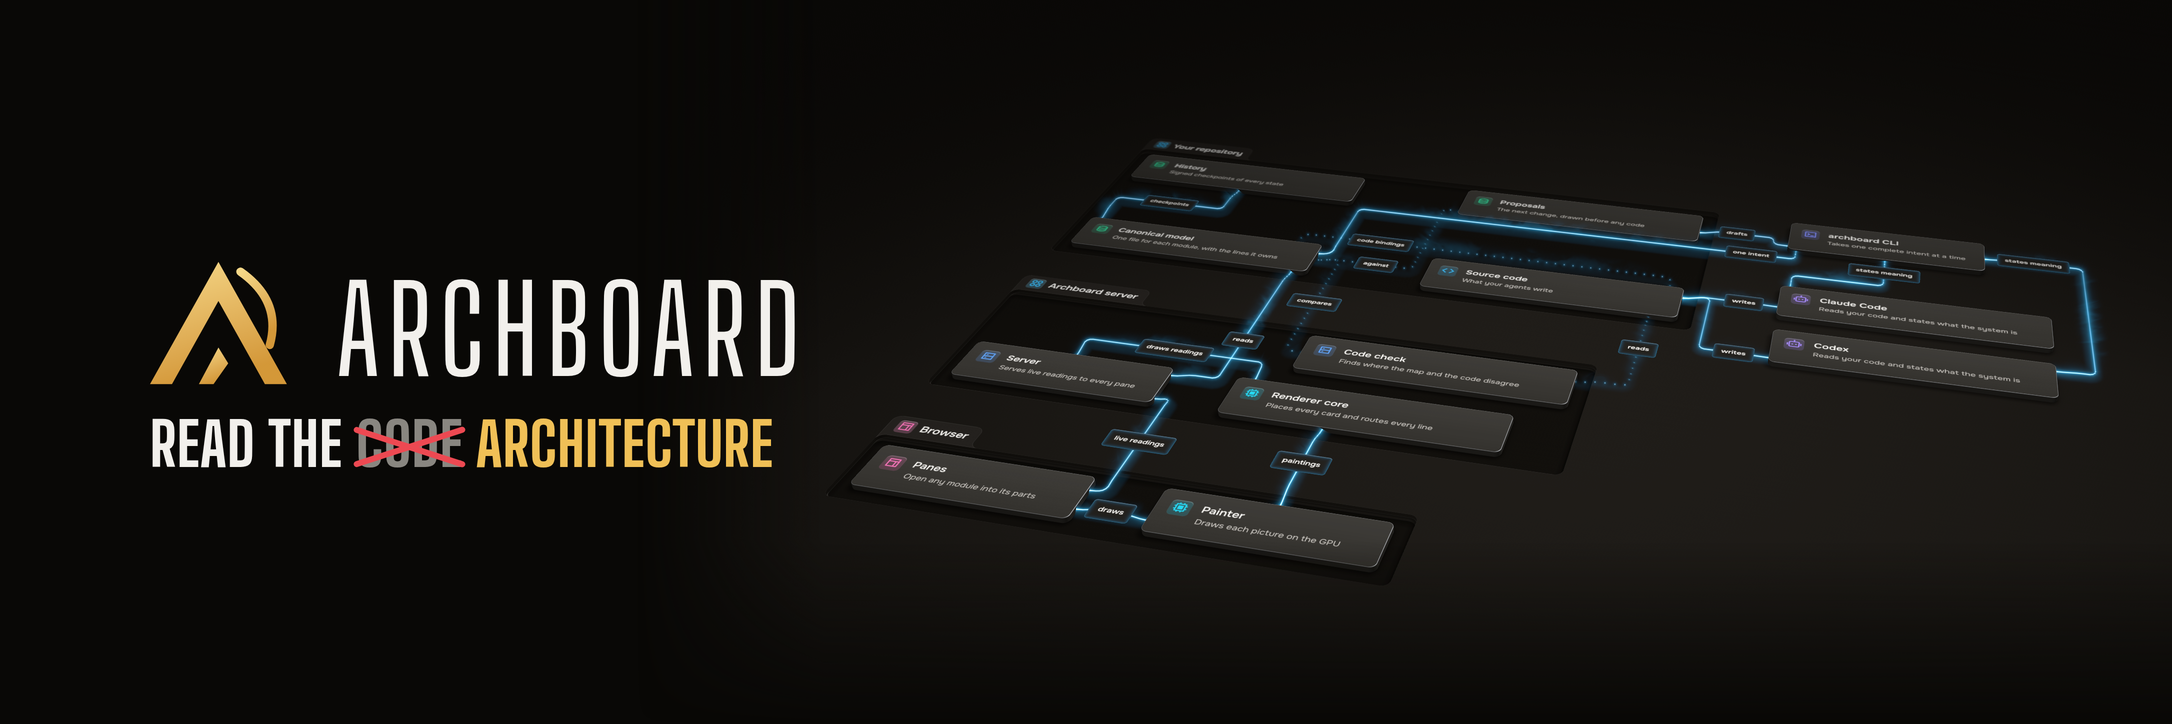
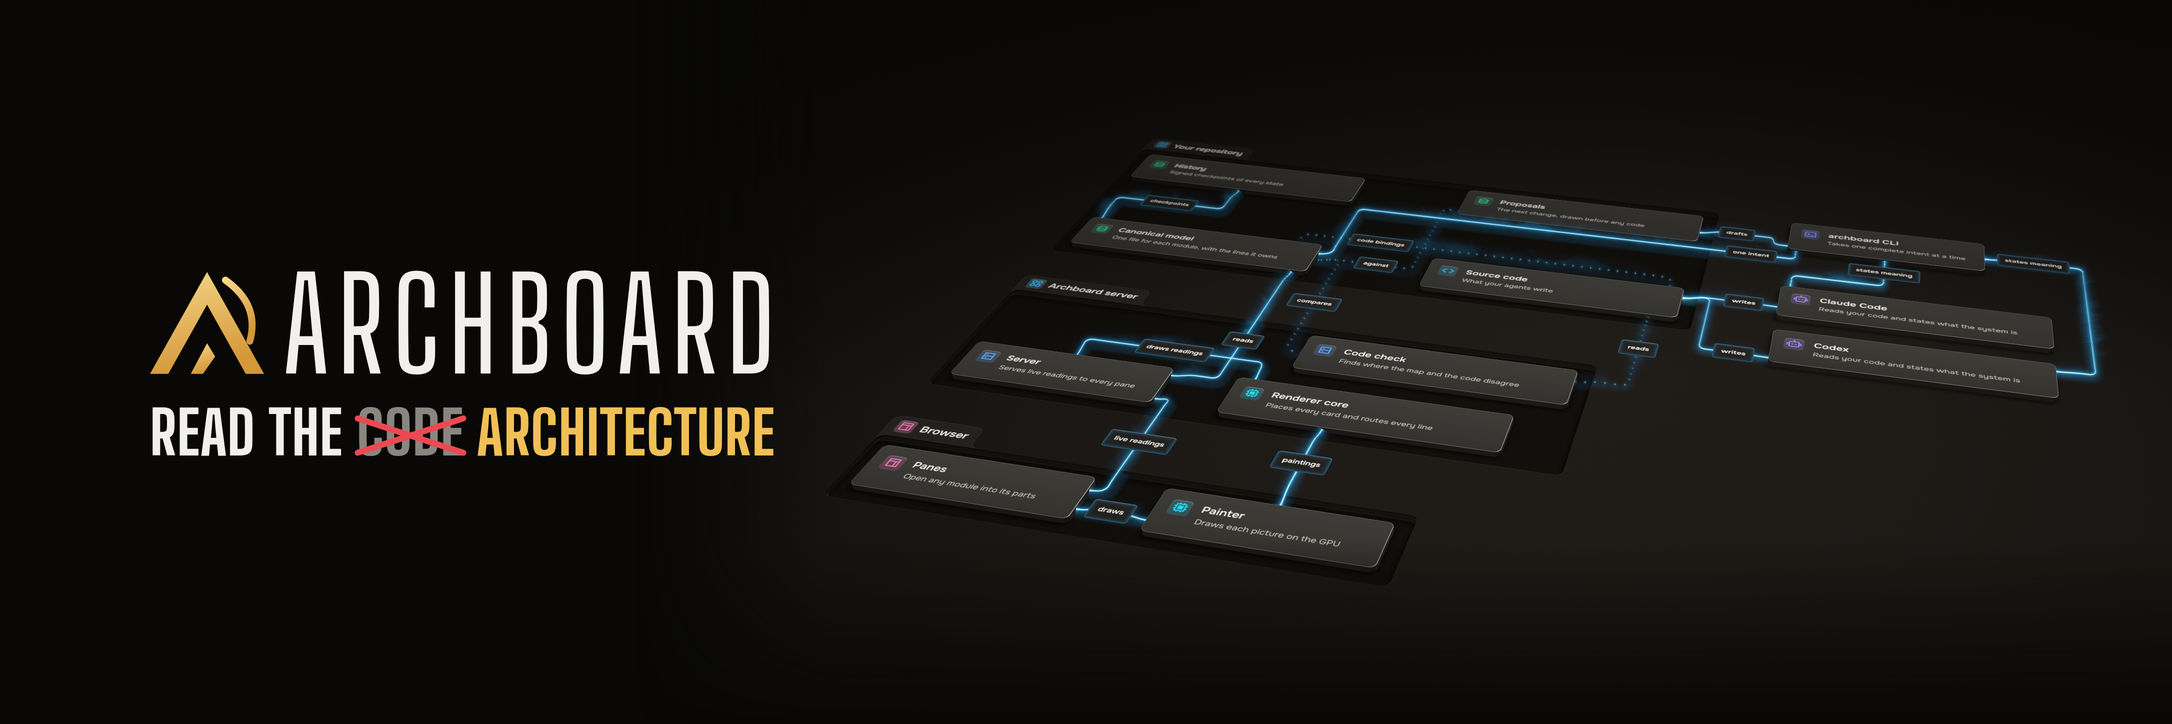
feat(readme): match the name to the mark and fit the tagline to the lockup
The art's lockup sizes the name so that its capitals stand exactly as
tall as the mark, trims the name's box to its capitals so the two centre
on each other, and sets the name closer to the mark. The banner sizes
its tagline to span from the mark's left edge to the name's last
capital, and its lockup shrinks so the tagline clears the table.

Refs: TASK-625

Changed region(s): [[0.0617, 0.3646, 0.3702, 0.6685]]

diff --git a/scripts/readme-assets/lockup.ts b/scripts/readme-assets/lockup.ts
@@ -1,8 +1,8 @@
 // The lockup the README's art sets: the mark beside the name. The mark is a gold peak with a
 // second stroke inside it and a swoosh over its shoulder, in the theme's gradient from --mark-hi
-// to --mark-lo. The name is archboard in the display face's tracked capitals. The shell draws the
-// same lockup (apps/web/src/ui/shell/components/Brand.tsx), and the repository lane holds this geometry to
-// the shell's, so the two cannot drift.
+// to --mark-lo. The name is archboard in the display face's tracked capitals, which stand exactly
+// as tall as the mark. The shell draws the same mark (apps/web/src/ui/shell/components/Brand.tsx),
+// and the repository lane holds this geometry to the shell's, so the two cannot drift.
 
 /** The mark's geometry, as the shell draws it. */
 const MARK = {
@@ -19,7 +19,15 @@ const MARK = {
  * How far the name stands from the mark, in the shell's pixels. The shell sets them 10 apart. At
  * the art's far larger sizes that gap reads as loose, so the art sets them closer.
  */
-const GAP = 6;
+const GAP = 2;
+
+/**
+ * The name's font size, as a share of the lockup's size, so that its capitals stand from the top
+ * of the mark's ink to its foot. The mark fits its box, 22 by 21 shell pixels, at 22/60 of a pixel
+ * per unit of its viewBox. Its ink, from the peak's tip at 3 to its feet at 53, is centred in the
+ * box. The display face's capitals are 0.8 of its size.
+ */
+const NAME = (50 * (22 / 60)) / 18 / 0.8;
 
 /**
  * A length of the shell's lockup, whose name is 18px, as a share of the name's size.
@@ -32,9 +40,10 @@ function em(shellPixels: number): string {
 
 /**
  * The lockup as markup for a page that has loaded the renderer package's theme.css and names the display
- * face "Archboard Display". Its proportions are the shell's but for the gap: at a name of 18px the
- * mark is 22 by 21, GAP away, and the name's line is 21 high.
- * @param size The name's font size, in pixels; the mark scales with it.
+ * face "Archboard Display". At a size of 18px the mark is 22 by 21, as in the shell, and the name
+ * stands GAP away, set at NAME times the size. The name's box is trimmed to its capitals, so the two
+ * centre on each other.
+ * @param size The lockup's size, in pixels: the size of the shell's 18px name.
  * @returns The markup.
  */
 function lockupMarkup(size: number): string {
@@ -46,8 +55,8 @@ function lockupMarkup(size: number): string {
 		<g fill="url(#archboard-mark)">${fills.map((d) => `<path d="${d}"/>`).join("")}</g>
 		<path d="${swoosh.d}" fill="none" stroke="url(#archboard-mark)" stroke-width="${swoosh.width}" stroke-linecap="round"/>
 	</svg>`;
-	const name = `<span style="font-family:'Archboard Display';font-weight:500;text-transform:uppercase;letter-spacing:0.07em;line-height:${em(21)};margin-bottom:${em(-1)};color:var(--foreground)">archboard</span>`;
-	return `<div style="display:flex;align-items:flex-end;gap:${em(GAP)};font-size:${size}px">${mark}${name}</div>`;
+	const name = `<span style="font-family:'Archboard Display';font-size:${NAME.toFixed(4)}em;font-weight:500;text-transform:uppercase;letter-spacing:0.07em;line-height:1;text-box:trim-both cap alphabetic;color:var(--foreground)">archboard</span>`;
+	return `<div style="display:flex;align-items:center;gap:${em(GAP)};font-size:${size}px">${mark}${name}</div>`;
 }
 
 export { MARK, lockupMarkup };

diff --git a/scripts/readme-assets/stage/banner.html b/scripts/readme-assets/stage/banner.html
@@ -48,8 +48,10 @@
 				margin: 0;
 				white-space: pre-line;
 			}
-			/* The tagline under the lockup, set as the site sets its headlines. */
+			/* The tagline under the lockup, set as the site sets its headlines. The page sizes it once
+			   the faces load, so it measures its words, not the lockup's width. */
 			.tagline {
+				width: max-content;
 				margin-top: 0.4em;
 			}
 			/* A headline in the display face over a lead in the body face, as the site sets them, each
@@ -125,37 +127,49 @@
 			lockup.style.setProperty("left", `${layout.lockup.left}px`);
 			lockup.style.setProperty("top", `${layout.lockup.middle}px`);
 			/**
-			 * Set words in an element, at their size. A word between tildes is struck out, and a word
+			 * Set words in an element, at a size. A word between tildes is struck out, and a word
 			 * between asterisks is set in gold.
 			 */
-			const setWords = (element, words) => {
+			const setWords = (element, text, size) => {
 				element.replaceChildren(
-					...words.text.split(/(~[^~]+~|\*[^*]+\*)/).map((part, index) => {
+					...text.split(/(~[^~]+~|\*[^*]+\*)/).map((part, index) => {
 						if (index % 2 === 0) return part;
 						const word = document.createElement(part.startsWith("~") ? "s" : "em");
 						word.textContent = part.slice(1, -1);
 						return word;
 					}),
 				);
-				element.style.setProperty("font-size", `${words.size}px`);
+				element.style.setProperty("font-size", `${size}px`);
 			};
 			lockup.innerHTML = lockupMarkup(layout.lockup.size);
-			if (layout.lockup.tagline) {
-				const tagline = document.createElement("p");
+			const tagline = layout.lockup.tagline && document.createElement("p");
+			if (tagline) {
 				tagline.className = "display tagline";
-				setWords(tagline, layout.lockup.tagline);
+				setWords(tagline, layout.lockup.tagline, layout.lockup.size);
 				lockup.append(tagline);
 			}
 			if (layout.corner) {
 				const { title, lead, right, bottom } = layout.corner;
-				setWords(corner.querySelector("[data-title]"), title);
-				setWords(corner.querySelector("[data-lead]"), lead);
+				setWords(corner.querySelector("[data-title]"), title.text, title.size);
+				setWords(corner.querySelector("[data-lead]"), lead.text, lead.size);
 				corner.style.setProperty("right", `${right}px`);
 				corner.style.setProperty("bottom", `${bottom}px`);
 				corner.hidden = false;
 			}
 			// The words stand where they stay before the table fits the picture to them.
 			await Promise.all([...document.fonts].map((face) => face.load().catch(() => undefined)));
+			if (tagline) {
+				// The tagline spans the lockup, from the mark's left edge to the name's last capital. A
+				// line's last letter carries its letter spacing, which neither width counts.
+				const row = lockup.firstElementChild;
+				const name = row.lastElementChild;
+				const after = (element) => parseFloat(getComputedStyle(element).letterSpacing) || 0;
+				const span =
+					name.getBoundingClientRect().right - after(name) - row.getBoundingClientRect().left;
+				const own = tagline.getBoundingClientRect().width - after(tagline);
+				const size = parseFloat(getComputedStyle(tagline).fontSize);
+				tagline.style.setProperty("font-size", `${(size * span) / own}px`);
+			}
 			if (!document.createElement("canvas").getContext("webgl2")) {
 				document.body.dataset.painted = "no-webgl";
 			} else {

diff --git a/scripts/readme-assets/banner.ts b/scripts/readme-assets/banner.ts
@@ -74,15 +74,17 @@ interface Layout {
 	 */
 	readonly picture: Span;
 	/**
-	 * The lockup: its left edge, the name's font size, and a tagline under it, set as the site sets
-	 * its headlines, as the corner's headline is. The middle is the vertical middle of the lockup and
-	 * its tagline together.
+	 * The lockup: its left edge, its size (lockup.ts says how it sets the mark and the name from
+	 * it), and a tagline under it. The tagline is set as the site sets its headlines, at the size
+	 * that spans the lockup from the mark's left edge to the name's last capital, and marks words as
+	 * the corner's words do. The middle is the vertical middle of the lockup and its tagline
+	 * together.
 	 */
 	readonly lockup: {
 		readonly left: number;
 		readonly middle: number;
 		readonly size: number;
-		readonly tagline: Words | null;
+		readonly tagline: string | null;
 	};
 	/**
 	 * Words in the lower right corner, set as the site sets its words: a headline in the display face
@@ -121,8 +123,8 @@ const BANNER: Layout = {
 	lockup: {
 		left: 150,
 		middle: 362,
-		size: 120,
-		tagline: { text: "Read the ~code~ *architecture*", size: 60 },
+		size: 100,
+		tagline: "Read the ~code~ *architecture*",
 	},
 	corner: null,
 	fade: { left: { from: 637, to: 824 }, foot: { from: 540, to: 724 } },

diff --git a/backlog/tasks/task-625 - The-README-banner-and-the-social-card-show-the-sites-hero-table-on-Archboards-ground.md b/backlog/tasks/task-625 - The-README-banner-and-the-social-card-show-the-sites-hero-table-on-Archboards-ground.md
@@ -7,7 +7,7 @@ status: Done
 assignee:
   - '@claude'
 created_date: '2026-11-10T20:23:00Z'
-updated_date: '2026-11-11T00:40:00Z'
+updated_date: '2026-11-11T00:45:00Z'
 labels:
   - docs
   - tooling
@@ -54,6 +54,8 @@ Fifth follow-up: the card's headline reads "Read the code architecture" on one l
 Sixth follow-up: on the card's headline, "code" is in --ink-faint and crossed out by two diagonal lines, 0.1em thick, a step darker than --removed (oklch(from var(--removed) calc(l - 0.12) calc(c + 0.04) h)). "architecture" is in --gold, the colour the site spends on what is chosen. A layout writes a gold word between asterisks. The lead is 26px. A single struck line kept "code" more legible at X's preview size, but the owner chose the cross.
 
 Seventh follow-up: the art's lockup sets the name 6 shell pixels from the mark, not the shell's 10, because the shell's gap reads as loose at the art's sizes (GAP in scripts/readme-assets/lockup.ts). The banner sets the card's headline, "Read the ~code~ *architecture*", as a tagline under its lockup at 60px, and the README's alt text names it.
+
+Eighth follow-up: the art's lockup sizes the name so its capitals stand exactly as tall as the mark's ink (NAME in lockup.ts: the display face's capitals are 0.8 of its size), and trims the name's box to its capitals with text-box so the two centre on each other. GAP is now 2 shell pixels. The banner's tagline is sized after the faces load to span from the mark's left edge to the name's last capital, and the banner's lockup size drops from 120 to 100 so the tagline clears the table.
 <!-- SECTION:NOTES:END -->
 
 ## Final Summary

diff --git a/docs/agents/readme-assets.md b/docs/agents/readme-assets.md
@@ -82,10 +82,11 @@ picture or where it fades, read the banner and the card again.
 
 The banner's lockup, the mark beside the name, comes from
 `scripts/readme-assets/lockup.ts`. A test in the repository lane holds that mark
-to the one the shell draws in `apps/web/src/ui/shell/components/Brand.tsx`. The art sets the
-name closer to the mark than the shell does, because the shell's gap reads as loose at the art's
-sizes. The banner sets the card's headline as a tagline under the lockup. The banner also
-writes `docs/assets/archboard-social-card.jpg`. It is GitHub's social preview and the
+to the one the shell draws in `apps/web/src/ui/shell/components/Brand.tsx`. The art sizes the
+name so that its capitals stand exactly as tall as the mark, and sets it closer to the mark than
+the shell does, because the shell's gap reads as loose at the art's sizes. The banner sets the
+card's headline as a tagline under the lockup, sized to span from the mark's left edge to the
+name's last capital. The banner also writes `docs/assets/archboard-social-card.jpg`. It is GitHub's social preview and the
 site's link preview, with the lockup above the table as the site's hero sets its words. Its lower
 right corner holds a headline and a lead, as the site sets them. The headline reads "Read the
 code architecture". The word "code" is in faint ink, crossed out by two diagonal lines a step
